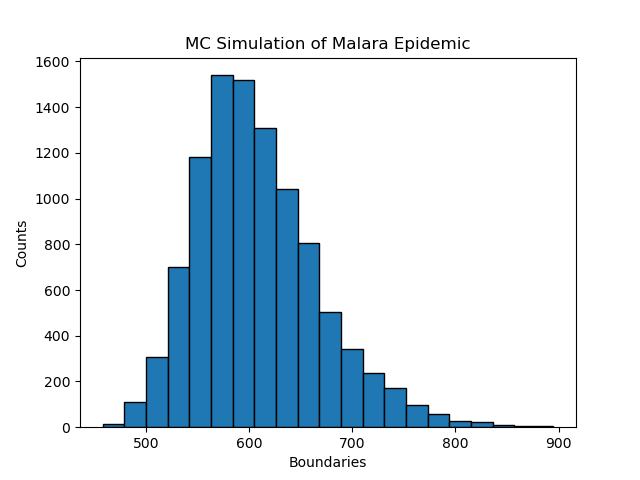
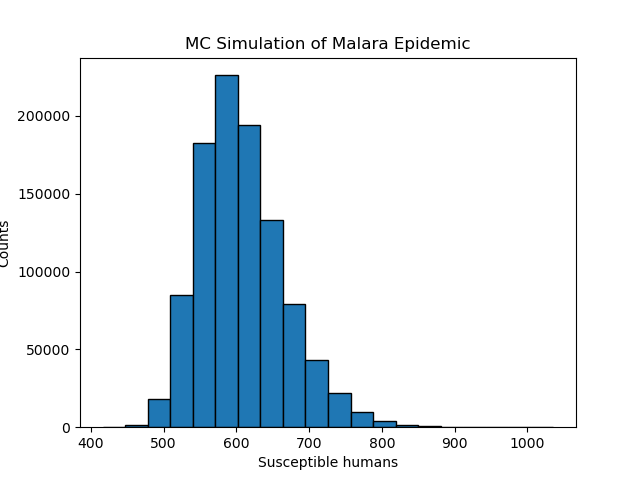
Faster simulaiton

diff --git a/Project/montecarlo.c b/Project/montecarlo.c
@@ -50,9 +50,11 @@ int main(int argc, char *argv[])
         return -1;
     }
     
+    
     /* HOW MANY EXPERIMENTS PER PROCESS */
     N = atoi(argv[1]); // Total number of experiments
     n = N/size;           // Experiments per process
+
 
     /* DEFINE MATRIX P */
     int P[15][7] = {
@@ -73,20 +75,24 @@ int main(int argc, char *argv[])
     {0, 0, 0, 0, 0, 0, -1}
     };
 
+
     /* START LOCAL TIME */
     double start = MPI_Wtime();
 
+
     /* MONTE CARLO SIMULATION */
-    int **X = calloc(7, sizeof(int*));
+    int **X = calloc(7, sizeof(int*)); // Big result matrix
     for (int i=0; i<7; i++)
         X[i] = calloc(n, sizeof(int));
-    
-    
-    srand(time(NULL)+rank); // Random seed for each rank
+
+    int x[7]; // Initial state vector
+
+    srand(time(NULL)+rank);// Random seed for each rank
 
     for (int i=0;i<n;i++)  
     {
-        int x[7] = {900,900,30,330,50,270,20};  // Initial state vector
+        // Initialize
+        x[0]=900; x[1]=900; x[2]=30; x[3]=330; x[4]=50; x[5]=270; x[6]=20;
         
         // Do experiment (simulation)
         t=0;
@@ -132,13 +138,6 @@ int main(int argc, char *argv[])
             X[row][i] = x[row];   // save x as a column in X
     }
 
-    /* SANITY CHECK */
-    /* printf("Rank %d: \n", rank);
-    for (int i=0;i<n;i++)
-        printf("%d, ", X[0][i]);
-    printf("\n"); */
-
-
     /* EXTRACT SUSCEPTIBLE HUMANS */
     int* local_res = (int*)malloc(n * sizeof(int));
 
@@ -165,12 +164,6 @@ int main(int argc, char *argv[])
 
     MPI_Allreduce(&local_max, &global_max, 1, MPI_INT, MPI_MAX, MPI_COMM_WORLD);
     MPI_Allreduce(&local_min, &global_min, 1, MPI_INT, MPI_MIN, MPI_COMM_WORLD);
-    
-
-    /* SANITY CHECK */
-    //printf("RANK %d:  local_max = %d, local_min = %d\n",rank, local_max, local_min);
-    //if (rank==0)
-    //    printf("RANK %d:  global_max = %d, global_min = %d\n",rank, global_max, global_min);
 
 
     /* LOCAL HISTOGRAM */
@@ -180,7 +173,6 @@ int main(int argc, char *argv[])
     for (int i=0;i<b;i++)
         bins[i] = global_min + i*interval;
     bins[b] = global_max;
-    
 
     int freqs[20] = {0,0,0,0,0,0,0,0,0,0,0,0,0,0,0,0,0,0,0,0}; // count each bin
     int bin;

diff --git a/Project/plot.py b/Project/plot.py
@@ -16,7 +16,7 @@ mid_points = [(boundaries[i]+boundaries[i+1])/2 for i in range(len(boundaries)-1
 plt.bar(mid_points, counts, width=np.diff(boundaries), align='center', edgecolor='black')
 
 # Add labels and title
-plt.xlabel('Boundaries')
+plt.xlabel('Susceptible humans')
 plt.ylabel('Counts')
 plt.title('MC Simulation of Malara Epidemic')
 
